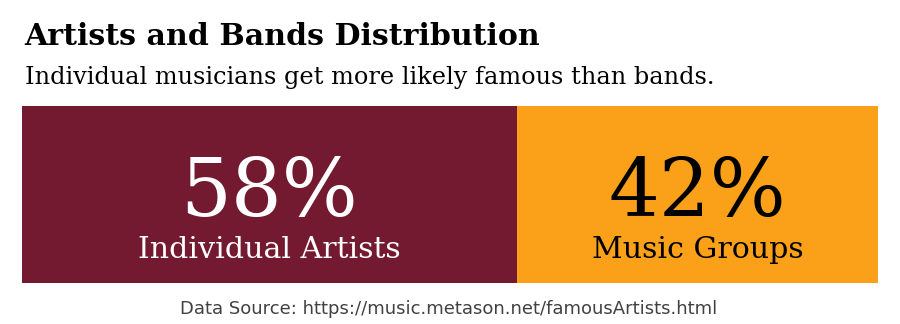
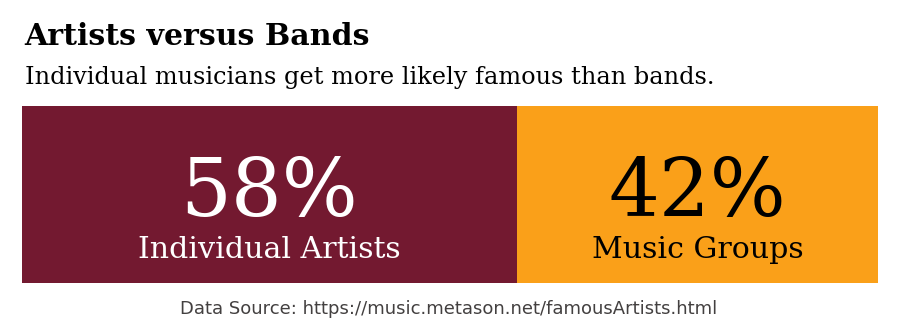
MusicData Lab Work V1.0

Changed region(s): [[0.1556, 0.0617, 0.6222, 0.1543]]

diff --git a/MusicData/README.md b/MusicData/README.md
@@ -1,108 +1,273 @@
 # Information Visualization of Music Data
 
-Get insights from data on musicians, bands, albums, and the US music recording industry.
+By Philipp Ackermann, philipp.ackermann@zhaw.ch, ZHAW School of Engineering
+
+Zurich, January 2022 
+
+---
+
+## Introduction
+
+The purpose of this lab work is to practice data visualization, and hopefully gain some best-practices along the way.
+
+The goal is to get insights from data on musicians, bands, albums, and the US music recording industry.
+
+---
+***DISCLAIMER***
+
+The data provided for this lab work is collected and prepared by the author and is definitevely biased:
+
+- by the data available at the time of acquiring it
+- by the data that was available for free (Open Data)
+- by personal music style preferrences
+
+Any message deduced from this data does therefore not reflect universal facts but are only valid for the scope of the current data.
+
+---
 
 ## Data Sources
 
-The data on musicians, bands, and albums is sourced from the music database run by Metason for their ArtistInfo application. ArtistInfo is available as App for iOS and macOS as well as a Web front-end at https://music.metason.net.
+The data on musicians, bands, and albums is sourced from the music database operated by Metason for their ArtistInfo application. Metason ([www.metason.net](https://www.metason.net)) is run by the author as a private project.
+
+ArtistInfo is available as App for iOS and macOS as well as a Web front-end at [music.metason.net](https://music.metason.net). The data for albums and artists is accessible via Web (see URLs below). More details on individual data records can be accesssed via the corresponding `ìd` or via Universal URL.
+
+### Artists
+
+- Famous musicians and bands
+  -  Data: [data/famousArtists.json](data/famousArtists.json)
+  -  Web: https://music.metason.net/famousArtists.html 
+- Data was collected in 2019 by Web crawling of
+  - top100 lists of music community Web sites
+- More details on Atists is available via
+  - Universal URL: https://music.metason.net/artistinfo?name=`artist name`
+  - Sample URL: [https://music.metason.net/artistinfo?name=Radiohead](https://music.metason.net/artistinfo?name=Radiohead)
 
 ### Albums
 
 - Recommended albums
-  - Data: `data/recomAlbums.json`
+  - Data: [data/recomAlbums.json](data/recomAlbums.json)
   - Web: https://music.metason.net/greatRecords.html 
-- Data was collected in 2019 by Web scrapping of
-  - best-of lists of music community Web sites ()
-  - top ratings of e-commerce Web sites (e.g., Amazon)
-
-### Artists
-
-- Famous artists and bands
-  -  Data: `data/famousArtists.json`
-  -  Web: https://music.metason.net/famousArtists.html 
-- Data was collected in 2019 by Web scrapping of
-  - Top100 lists of music community Web sites
-
-
-
+- Data was collected in 2019 by Web crawling of
+  - best-of lists from music community Web sites
+  - top ratings of e-commerce Web sites selling music (e.g., Amazon)
+- More details on Albums is available via
+  - Universal URL: https://music.metason.net/artistinfo?name=`artist name`&title=`album title`
+  - Sample URL: [https://music.metason.net/artistinfo?name=Radiohead&title=Man%20Of%20War](https://music.metason.net/artistinfo?name=Radiohead&title=Man%20Of%20War)
 
 ### US Music Industry Revenues
-Sales Data from Recording Industry Association of America (RIAA)
+Sales data from the Recording Industry Association of America (RIAA)
 - 50+ years of sales by media, from vinyl to streaming
-- Data: `data/USMusicMarket.csv`
-- Sourcse: https://www.riaa.com/u-s-sales-database/ 
-- Revenue in Millions USD (adjusted for inflation)
+- Data: [data/USMusicMarket.csv](data/USMusicMarket.csv)
+- Source: https://www.riaa.com/u-s-sales-database/ 
+- Revenue values are in Millions USD (adjusted for inflation)
 
-
-
+---
 ## Info Vis Process
 
 Crreating convincing Info Vis is typically an iterative process:
 
 1. Data Processing
-2. Data Analytics & Cleansing --> `analytics/*Analytics.py`
-3. Data Enhancing --> `analytics/*Enhancing.py`
-4. Visual Data Mining by creating data graphics
-5. Back to step 2 to improve insights into data
-6. Information Visualization
-   - Story: open questions, interesting insights, messages, ...
+   - Data Acquisition and Extraction
+   - Data Transformation and Cleansing
+2. Information Modeling
+   - Data Analysis
+   - Visual Data Mining by creating data graphics
+   - Back to step 1 to improve insights into data
+3. Presentation Authoring
+   - Story creation: open questions, interesting insights, messages, ...
    - Layout: chart type(s), dimensions, data mappings, ...
    - Styling: color palletes, typography
-   - Text Messages: title, subtitle, captions, highlights
-   - Interactions & Animations (optional)
-7. Back to step 1 or 2 to improve information visualization
-
+   - Text messages: title, subtitle, captions, annotations, highlights
+   - Interactions & animations (optional, not for this lab work)
+4. Back to step 1 or 2 to improve information visualization
+  
 ![](infovis/images/DataVizWorkflow.png)
+*Figure 1: The Process Workflow for Information Visualization*
 
 The good news:
-- Data Processing is already done for you
-- Content is unified according to classifications for
-  - Music instruments:
-  - Musical genres & styles:
-  - World regions & countries: 
-- sdsds
+- Data Processing for the music data in this repository is already done for you
+- Content is already unified according to classifications for
+  - Musical genres & styles: https://music.metason.net/genres.html
+   - Music instruments: https://music.metason.net/instruments.html - World regions & countries: https://music.metason.net/regions.html
+- Data Analytics is prepared
+  - Using __Pandas__ for data mangling and simple data graphics
+  - For all data sources there are templates available
+  - Python code: `analytics/*Analytics.py`
+  - See sample data graphics below
+- Data Enhancing is examplified
+  -  Python code: `analytics/*Enhancing.py`
+- Information Visualization has a few samples
+  - Using __Matplotlib__ for creating convincing info vis
+  - Python code: `infovis/*.py`
+  - See sample info vis below
 
-## Data Analytics
+---
+## Sample Data Graphics used for Data Analytics
 
-### Python Libraries
+Visual Data Mining is a critical component in exploratory data analysis. You quickly create plots in order to better understand your data. These data graphics do not have to be perfect. We therefore use the plot functionality that Pandas is providing. These charts do not look great but are easy to generate due to some automatisms (data mapping, dealing with missing values, ...)
 
-Gender from name in Python:
+### Album Data
 
-https://github.com/Bemmu/gender-from-name
+![](analytics/PNG/albumsGenres.png)
 
+---
 
-## Information Visualization
+![](analytics/PNG/albums2000-2015.png)
 
-### Open Questions
+---
 
-- Who gets more famous: Artists or Bands? --> `artistsDistribution.py`
-- Get individual artists more famous than bands in recent years? --> `artistsDistributionOverTime.py`
-- Top 10 countries artist split (indiv/bands)
-- What are the top 10 countries of famous albums
-- Where are artists coming from shown on a world map
-- US vs. UK artists over years
-- US vs. UK albums releases over years
-- Important events in the music industry
-- Genres / counry relation matrix?
-- What are the most used words in album titles?  --> `wordsInTitle.py`
-- Gender artists (not bands)
-- Score mean or score distribution per genre
-- Genres distribution
-- Genres distribution over years
+![](analytics/PNG/albumsTopGenres.png)
 
-### Interesting Insights (Messages)
+---
 
-- Individual artists get more famous than bands
-- Today bands are out of the game (rock bands are gone)
+### Artist Data
+
+![](analytics/PNG/artistsBands.png)
+
+---
+
+![](analytics/PNG/artistsGenresBands.png)
+
+---
+
+![](analytics/PNG/artistsCountries.png)
+
+---
+
+![](analytics/PNG/artistsGenres.png)
+
+---
+
+![](analytics/PNG/artistsGenresTopCountries.png)
+
+---
+
+![](analytics/PNG/artistsTopGenresTopCountries.png)
+
+---
+
+![](analytics/PNG/artistsGender.png)
+
+---
+
+![](analytics/PNG/artistsGenderOverTime.png)
+
+---
+
+![](analytics/PNG/artistsCareerStart.png)
+
+---
+
+## Interesting Questions and Potential Insights
+
+All good data visualizations start with a good question.
+
+- Who gets more famous: Artists or Bands?
+  - Already done: see `Artists versus Bands` below
+  - Sample code: [infovis/artistsBands.py](infovis/artistsBands.py)
+- Get individual artists more famous than bands in recent years?
+  -  Already done: see `Famous Mussicians and Bands over the Last 100 Years` below
+  -  Sample code: [infovis/artistsOverTime.py](infovis/artistsOverTime.py)
+- What are the most used words in album titles?
+  -   Already done: see `Most Used Words in Title of Recommended Albums`below
+  -   --> Sample code: [infovis/wordsInTitle.py](infovis/wordsInTitle.py)
+- What are the top 10 countries where famous musicians are coming from?
+  - Already done: see below
+- How do US vs. UK artists compare over years?
+- Do US vs. UK albums releases differ in genre over years?
+- Do most used words in albums differ a lot between US and UK?
+- Do technical innovations (CD, MP3 downloads, streaming) have an influence on the music market?
+- Are there relevant gender aspects in recommended albums?
+- Recommendation score: what are means or distributions per genre?
+- Do Jazz artists live longer than Rock musicians?
+- At which age of the artist have famous albums typically been released?
 - ...
 
+___
 
-### Python Libraries
+## Sample Information Visualization
 
-Word Cloud
+When preparing visualizations for an audience (for a report, a company presentation, a Web page, ...), attention must be paid to many details. You therefore want to have control over the details of your generated charts. A very prominent data vis library used in the Python community is **matplotlib**. It is by the way the vis library under the hood of Pandas plotting functionality. Pandas internaly calls matplotlib functions to create charts.
 
-https://github.com/amueller/word_cloud
+Matplotlib has many plotting methods that make nearly any kind of chart imaginable (an exception is the visualization of hierarchical data like tree structures). Via an object-oriented interface you have control over all apects of data charts (layout, size, color, text, fonts, axis, ticks, etc.). This makes matplotlib very powerful but not easy to learn. Take this as a challenge ... 
+
+### Styling
+
+It is good practice to define color palettes and typography (font family) upfront for the medium the visualization will be used for.
+
+The charts might be used on the Metason Web site where most of the data is coming from. For the following Info Vis samples I will therefore use the brand colors defined by the Corporate Identity/Corporate Design (CI/CD) of Metason.
+
+![](infovis/PNG/colorPalette.png)
+
+Using well-thougt typography and a consistent color palette gives your work credibility and keeps the reader engaged.
+
+### Some Stories
+
+And here we go ...
+Some examples of information visualization destilled from the analyzed music data.
+
+![](infovis/PNG/artistsBands.png)
+
+---
+
+![](infovis/PNG/artistsOverTime.png)
+
+---
+
+![](infovis/PNG/artistsTopCountries.png)
+
+---
+
+![](infovis/PNG/wordsInTitle.png)
+
+---
+
+## Now It's Your Turn
+
+Start your lab work ...
+
+### Perform Data Analytics Tasks
+
+- Further explore content of music data
+- Deal with missing data
+- Deal with wrong data
+- Deal with strange data formats (e.g., date/time values)
+- Filter data (slice)
+- Shape data (group, pivot, stack/unstack)
+- Enhance data (deduce or join)
+- Use visual data mining to gain insights (using Pandas plots)
+
+### Develop Convincing Info Vis
+
+- Ask relevant questions
+- Create eye-catching and attention-grabbing Info Vis (using Matplotlib)
+- Attract the reader's eye by highlighting important aspects
+- Tell a story, or at least have an interesting message
+- ...
+- Show your results
+
+---
 
 ## Tips and Tricks
 
-- ?
+### Used Python Libraries
+
+- Get gender from name in Python:
+  - https://github.com/Bemmu/gender-from-name
+ - Word Cloud
+   - https://github.com/amueller/word_cloud
+
+### Info Vis Hints
+
+- Overview first, then details
+- Focus by Reduction
+  -  Showing all does often confuse
+  -  Reduce dimensions
+  -  Filter to interesting aspects
+- Compare 
+  - 2 or 3 selections
+  - over time
+
+### Coding Tips
+
+- ...
